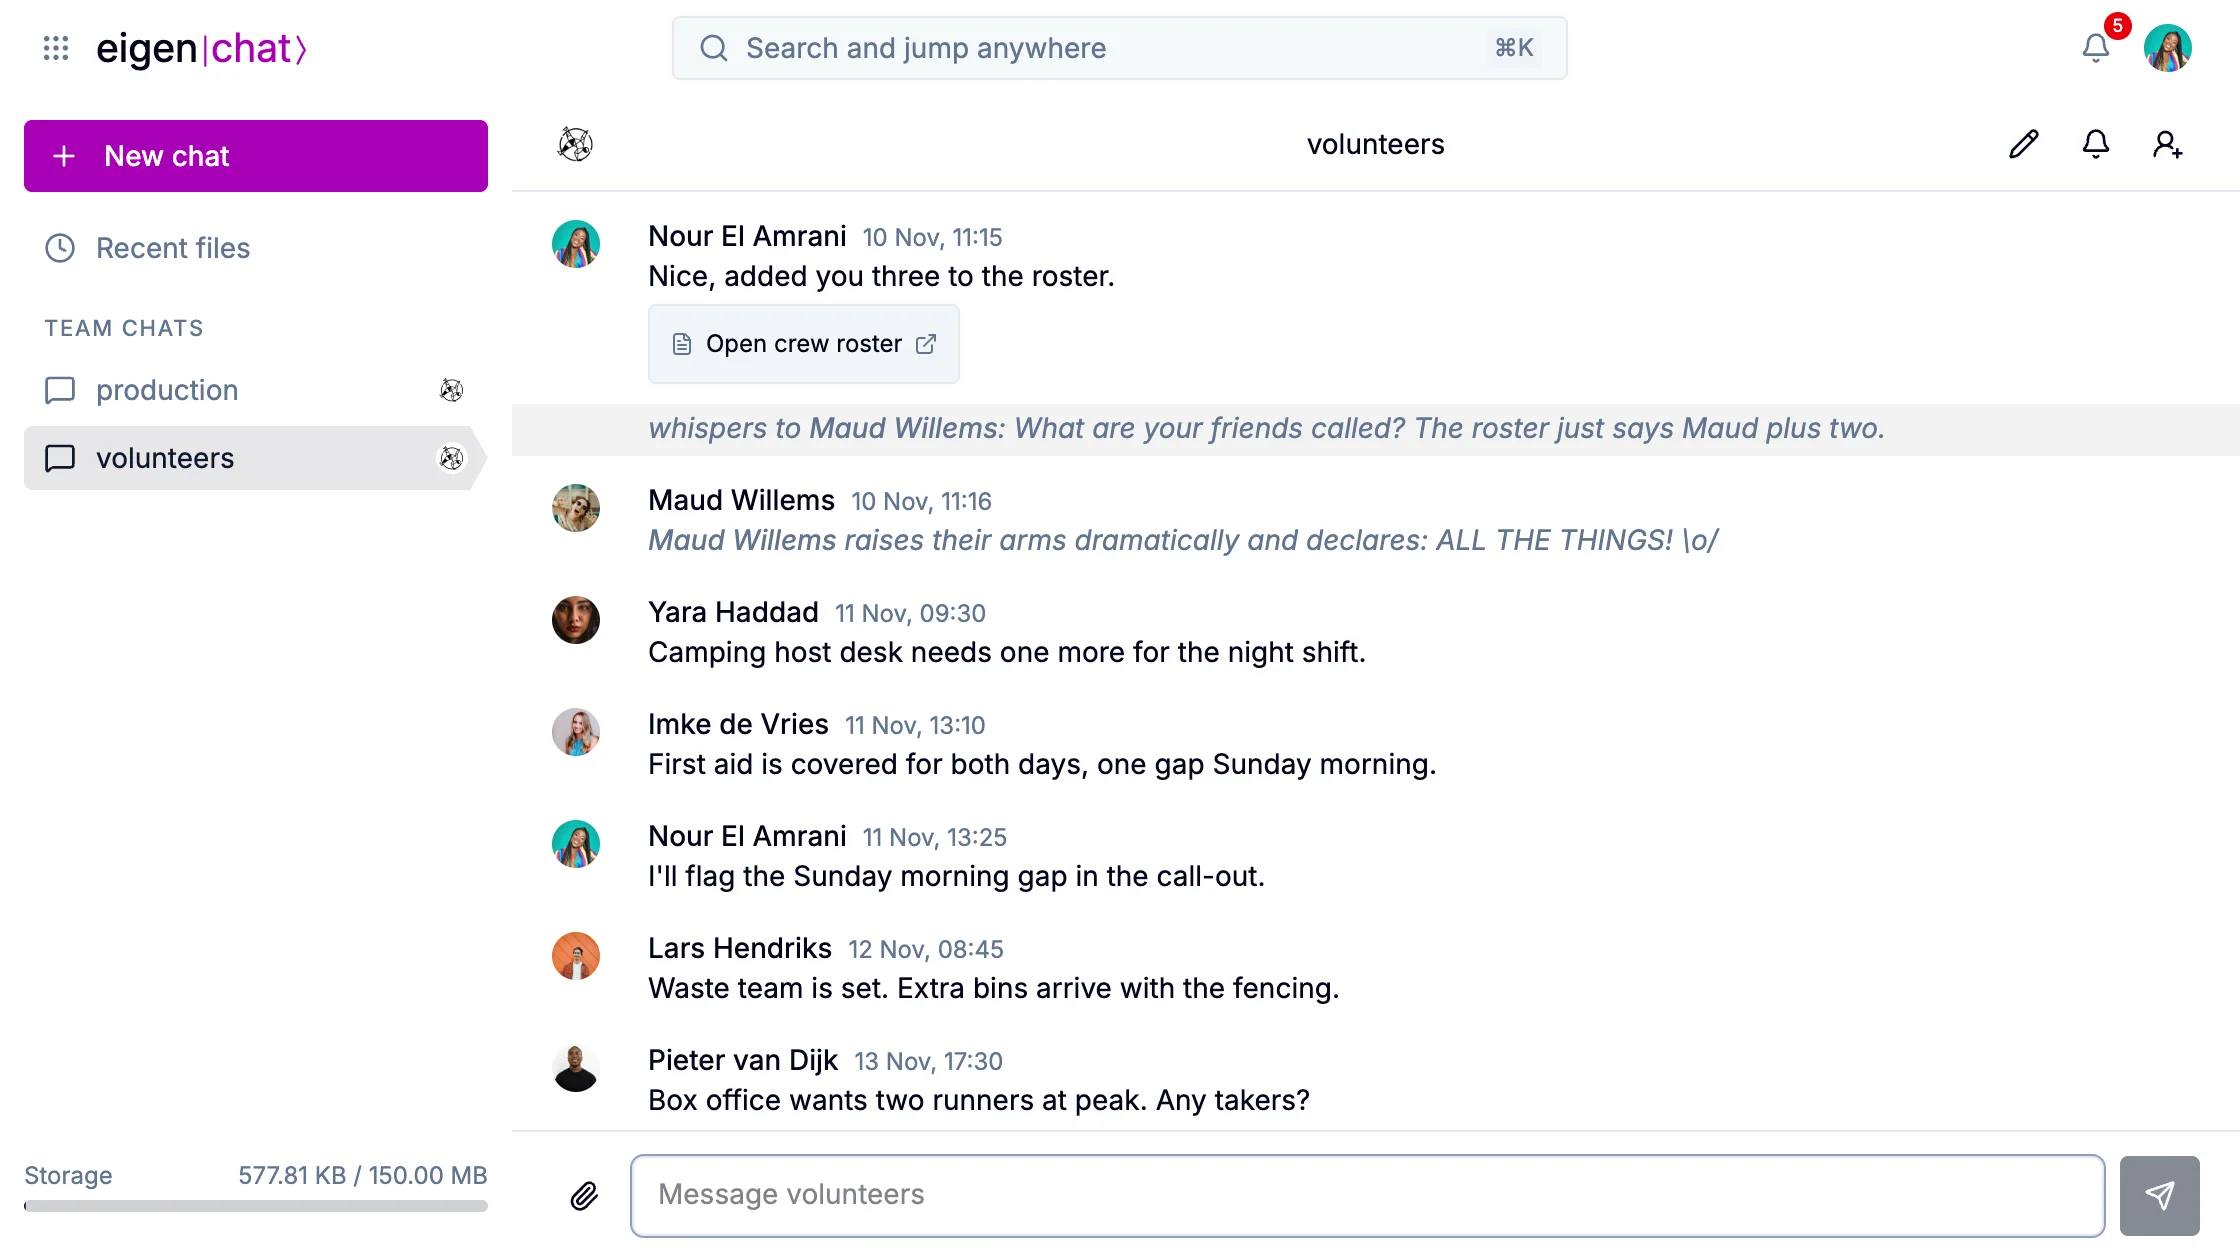
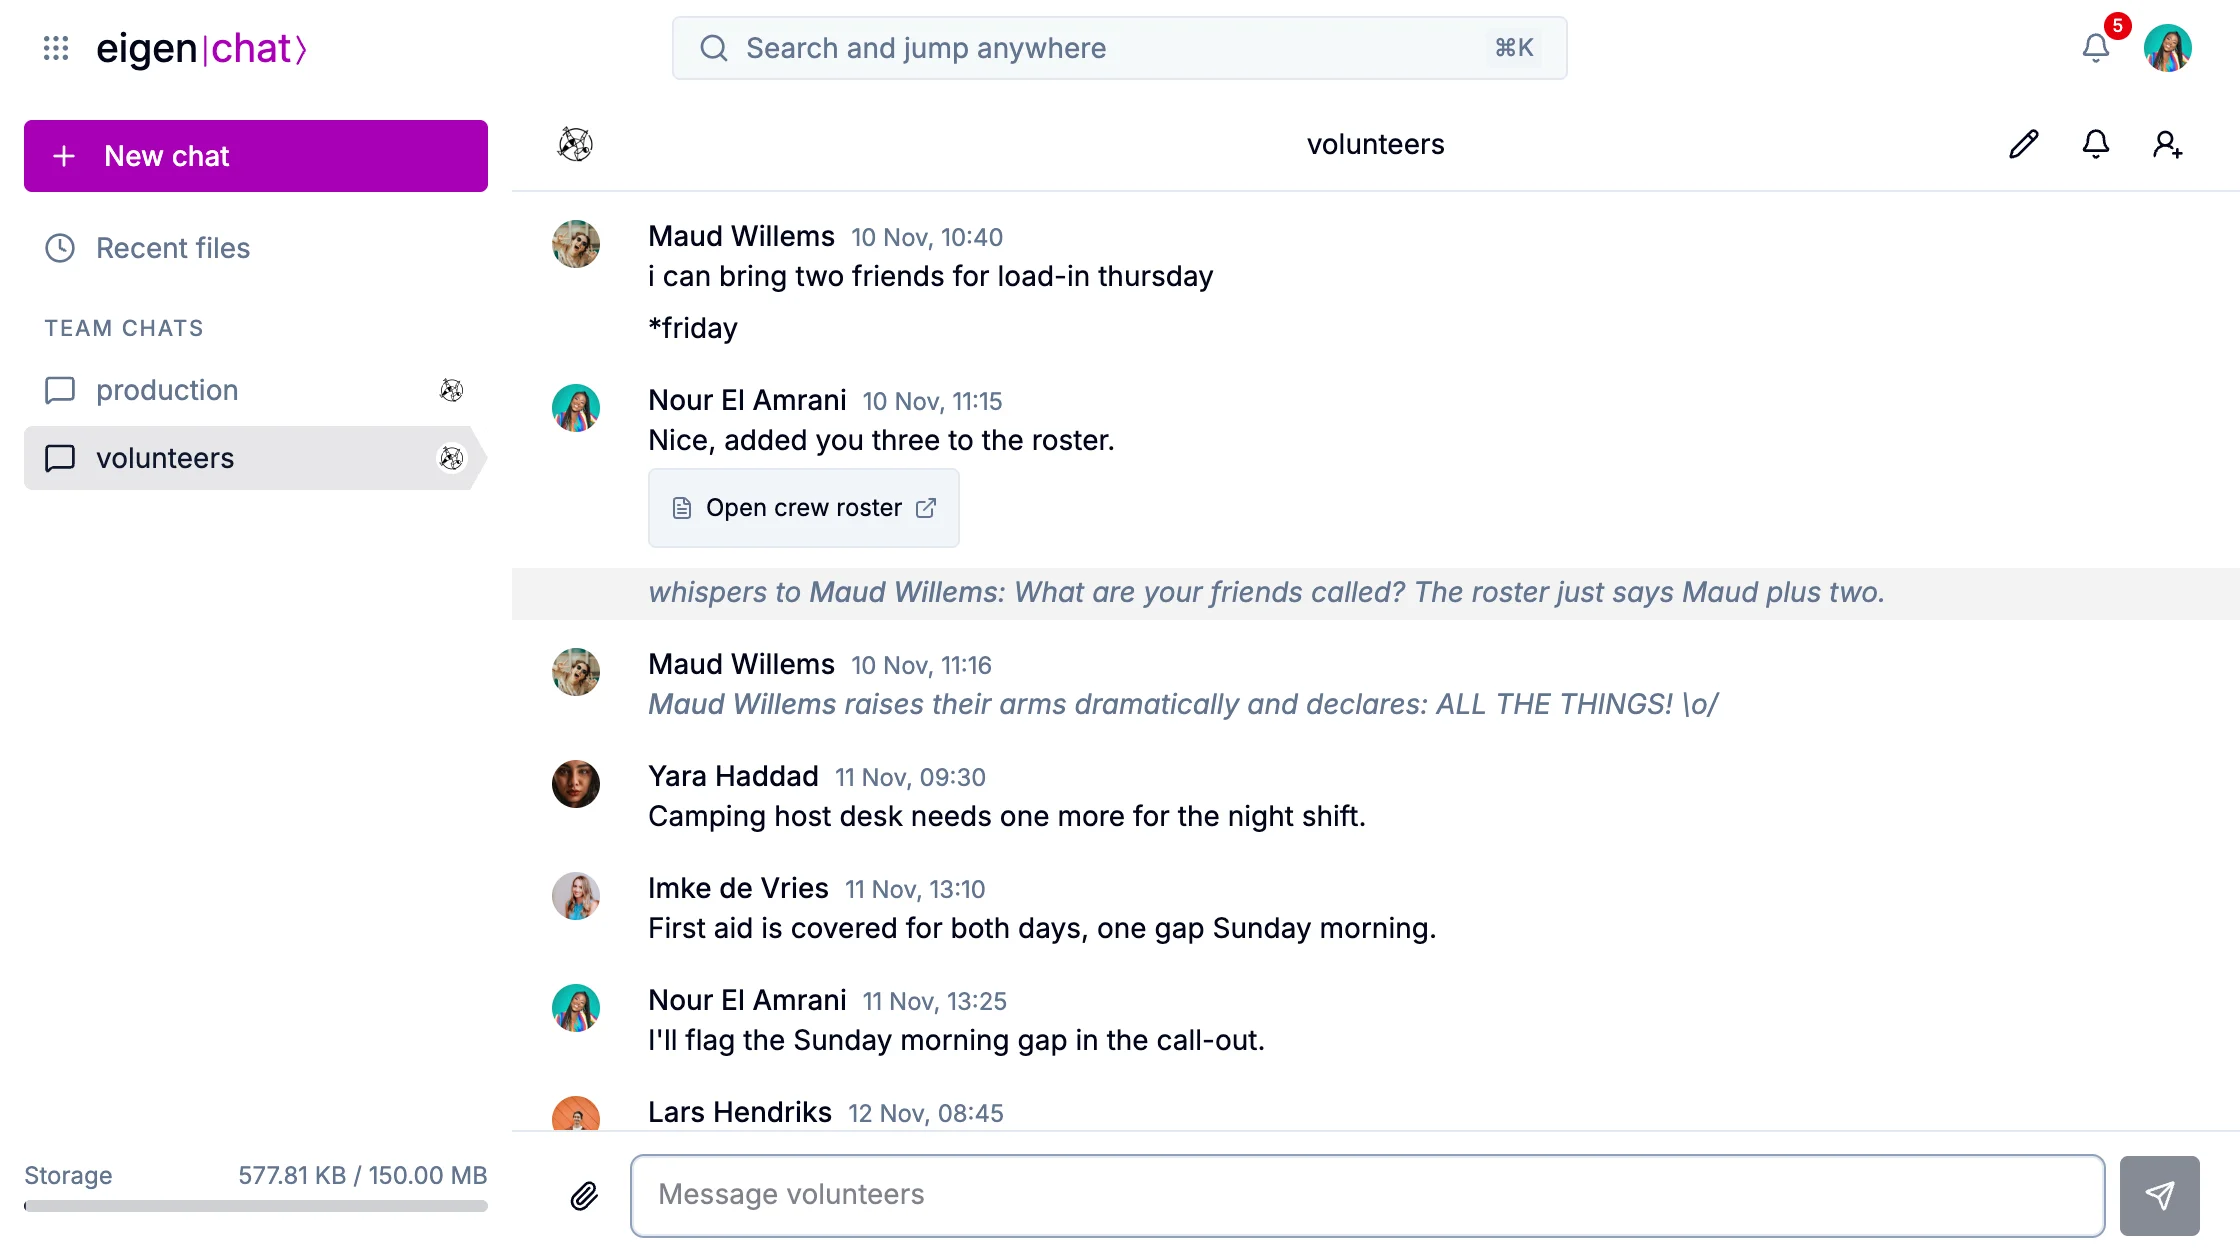
feat(index): the volunteers still starts at Maud's offer
The still now starts one message higher, at Maud's offer to bring two
friends, so it reads from her offer through Nour's roster and whisper
to Maud's answer. Pieter's line drops off the foot.

Changed region(s): [[0.25, 0.4643, 0.8438, 0.8976], [0.25, 0.3095, 0.8125, 0.4333], [0.25, 0.1548, 0.5312, 0.2786]]

diff --git a/apps/index/capture/scenes/chat-still.ts b/apps/index/capture/scenes/chat-still.ts
@@ -1,5 +1,5 @@
 // The still of the Chat page: the volunteers channel as the volunteer coordinator reads it, with the crew roster
-// attached to a message and the runner's cheers between the lines, in light.
+// attached to a message, her whisper and the runner's emote between the lines, in light.
 
 import type { Scene } from '../lib/scene';
 import { VIEWPORT } from '../lib/scene';
@@ -18,10 +18,10 @@ export const chatStillVolunteers = {
         const roster = page.getByText('Open crew roster');
         await roster.waitFor();
         await Bun.sleep(2000);
-        // The channel opens at its last line, with the roster scrolled out above, so it scrolls up to start at the
-        // roster's message, as she would. A message's row is the innermost block that lights up under the pointer.
+        // The channel opens at its last line, with the roster scrolled out above, so it scrolls up to start at Maud's
+        // offer above the roster, as she would. A message's row is the innermost block that lights up under the pointer.
         await page
-            .locator('div.group', { has: roster })
+            .locator('div.group', { has: page.getByText('i can bring two friends') })
             .last()
             .evaluate((row) => row.scrollIntoView({ block: 'start' }));
         await Bun.sleep(500);
